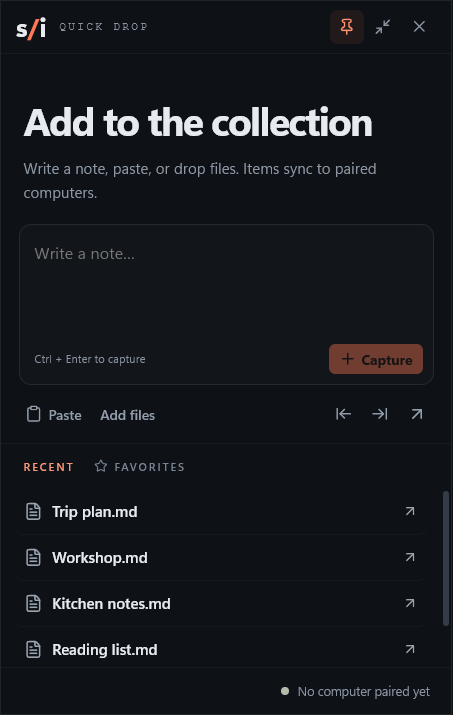
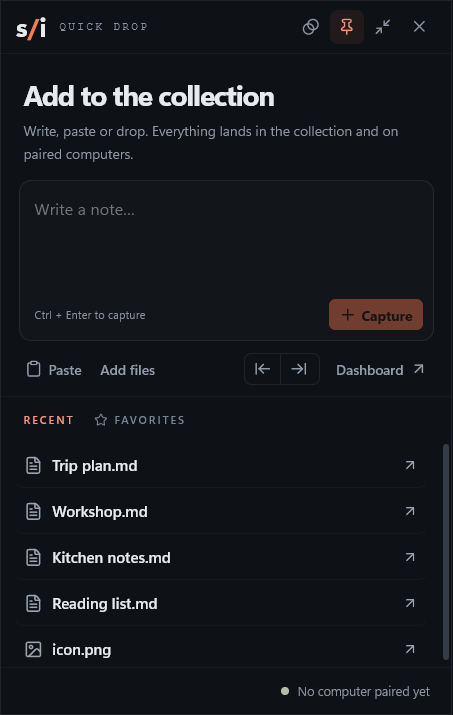
Release 0.4.5: notes in a side pane, previews without Markdown, chrome that says each thing once
Notes open in a pane beside the collection and save on switch or close. Card previews on the desktop, pinboard and phone show plain text. Search moves to the top bar in place of the breadcrumb; the sync pill shows only for requests or problems. The dialog is Preferences everywhere. Quick drop gets a quieter headline and labelled tools.

diff --git a/src/App.tsx b/src/App.tsx
@@ -10,6 +10,7 @@ import { CommandPalette } from './CommandPalette';
 import { saveBeforeUpdate } from './save-before-update';
 import { PreviewBody, previewLabel } from './Preview';
 import { previewKind } from '../shared/media';
+import { plainText } from './markdown-parse';
 
 const isPanel = new URLSearchParams(location.search).get('panel') === '1';
 const emptyLibrary: LibrarySnapshot = { items: [], placements: [] };
@@ -23,7 +24,7 @@ function title(item: LibraryItem) { return item.kind === 'note' ? item.name.repl
 function folderOf(path: string) { const index = path.lastIndexOf('/'); return index < 0 ? '' : path.slice(0, index); }
 export function collectionName(root: string) { return root.split(/[\\/]/).filter(Boolean).at(-1) || root; }
 function notePreview(item: LibraryItem) {
-  const lines = (item.preview || '').replace(/^#+\s*/gm, '').split('\n');
+  const lines = plainText(item.preview || '').split('\n');
   if (lines[0]?.trim() === title(item)) lines.shift();
   return lines.join('\n').trim() || 'Empty note';
 }
@@ -91,7 +92,7 @@ export function App() {
   function renderCard(item: LibraryItem) {
     const color = item.path.split('').reduce((sum, character) => sum + character.charCodeAt(0), 0) % 3;
     const folder = folderOf(item.path);
-    return <article className={`item-card ${item.kind} note-color-${color}`} data-testid="item-card" data-path={item.path}>
+    return <article className={`item-card ${item.kind} note-color-${color} ${note?.path === item.path ? 'open' : ''}`} data-testid="item-card" data-path={item.path}>
       {settings?.favorites?.includes(item.path) && <Star className="favorite-mark" size={14} fill="currentColor" aria-label="Favorite" />}
       <button className="card-main" onClick={() => void run(() => openItem(item))} aria-label={`Open ${item.name}`}>
         {item.kind === 'image' ? <div className="image-preview"><Image size={32} className="image-fallback" /><img src={media(item)} alt={item.name} loading="lazy" onError={event => { event.currentTarget.style.opacity = '0'; }} /></div> : item.kind === 'video' ? <div className="image-preview video-preview"><Film size={32} className="image-fallback" /><img src={media(item)} alt={item.name} loading="lazy" onError={event => { event.currentTarget.style.opacity = '0'; }} /><span className="play-badge"><Play size={16} fill="currentColor" /></span></div> : item.kind === 'audio' ? <div className="file-preview"><div className="file-glyph audio-glyph"><Music size={37} strokeWidth={1.3} /><span>{item.name.split('.').at(-1)?.slice(0, 5).toUpperCase() || 'AUDIO'}</span></div><h3>{item.name}</h3><span>{size(item.size)}</span></div> : item.kind === 'note' ? <div className="note-preview"><div className="card-kind"><FileText size={13} /><span>NOTE</span></div><h3>{title(item)}</h3><p>{notePreview(item)}</p></div> : <div className={`file-preview ${previewKind(item.name) === 'pdf' ? 'pdf-card' : ''}`}>{previewKind(item.name) === 'pdf' && <img className="pdf-thumb" src={media(item)} alt="" loading="lazy" onError={event => { event.currentTarget.style.display = 'none'; }} />}<div className="file-glyph"><File size={37} strokeWidth={1.3} /><span>{item.name.split('.').at(-1)?.slice(0, 5).toUpperCase() || 'FILE'}</span></div><h3>{item.name}</h3><span>{size(item.size)}</span></div>}
@@ -132,13 +133,13 @@ export function App() {
           <button className="sidebar-settings" onClick={() => setSettingsTab('preferences')}><SettingsIcon size={17} />Preferences<span className="version">v{initial.version}</span></button>
         </div>
       </aside>
-      <main className="main-content"><header className="topbar"><div className="breadcrumb">{name}<span>/</span><strong>{heading}</strong></div><div className="topbar-actions"><button className="icon-button" aria-label="Open command palette" title="Commands · Ctrl/⌘ K" onClick={() => setPalette(true)}><Command size={18} /></button><button className={`sync-pill ${sync.state}`} onClick={() => setSettingsTab('connect')}>{statusIcon}<span>{sync.state === 'synced' ? 'Up to date' : sync.state === 'unpaired' ? 'Pair a computer' : sync.state === 'offline' ? 'Offline' : sync.state === 'error' ? 'Needs attention' : sync.state === 'paused' ? 'Paused' : sync.state === 'starting' ? 'Starting' : 'Syncing'}</span>{sync.pending.length > 0 && <b>{sync.pending.length}</b>}</button><span className="topbar-divider" /><button title="Open Quick drop" aria-label="Open Quick drop" className="icon-button" onClick={() => void window.syncit.showPanel()}><PanelTop size={19} /></button></div></header>
+      <main className="main-content"><header className="topbar"><div className="search-box"><Search size={16} /><input aria-label="Search the collection" placeholder="Search names, folders and note text" value={search} onChange={event => setSearch(event.target.value)} />{search ? <button className="icon-button" aria-label="Clear search" onClick={() => setSearch('')}><X size={14} /></button> : <kbd>{initial.platform === 'darwin' ? '⌘' : 'Ctrl'} K</kbd>}</div><div className="topbar-actions">{(sync.state === 'error' || sync.pending.length > 0) && <button className={`sync-pill ${sync.state}`} onClick={() => setSettingsTab('connect')}>{statusIcon}<span>{sync.pending.length > 0 ? 'Pairing request' : 'Needs attention'}</span>{sync.pending.length > 0 && <b>{sync.pending.length}</b>}</button>}<button className="icon-button" aria-label="Open command palette" title="Commands · Ctrl/⌘ K" onClick={() => setPalette(true)}><Command size={18} /></button><button title="Open Quick drop" aria-label="Open Quick drop" className="icon-button" onClick={() => void window.syncit.showPanel()}><PanelTop size={19} /></button></div></header>
         <div className="page-heading"><div><h1>{heading}</h1><p>{subtitle}</p></div><button className="primary new-note" disabled={busy} onClick={() => void run(async () => setNote(await window.syncit.createNote()))}><Plus size={17} />New note</button></div>
         {library.error && <div className="page-error"><AlertTriangle size={18} /><span>{library.error}</span><button onClick={() => void refresh()}>Retry</button></div>}
         {sync.pending.length > 0 && <button className="pair-banner" onClick={() => setSettingsTab('connect')}><Link2 size={18} />{sync.pending[0].name} asks to join this collection.<span>Review request <ArrowRight size={15} /></span></button>}
-        <div className="toolbar"><div className="view-switch"><button aria-label="Grid view" className={view === 'grid' ? 'active' : ''} onClick={() => setView('grid')}><LayoutGrid size={15} />Grid</button><button aria-label="Pinboard view" className={view === 'board' ? 'active' : ''} onClick={() => setView('board')}><Pin size={15} />Board</button></div><div className="search-box"><Search size={16} /><input aria-label="Search the collection" placeholder="Search names, folders and note text" value={search} onChange={event => setSearch(event.target.value)} />{search && <button className="icon-button" aria-label="Clear search" onClick={() => setSearch('')}><X size={14} /></button>}</div><span className="sort-label"><ListFilter size={15} />Latest first</span><button className="secondary-button" disabled={busy} onClick={() => void run(() => window.syncit.chooseFiles())}><Upload size={15} />Add files</button></div>
+        <div className="toolbar"><div className="view-switch"><button aria-label="Grid view" className={view === 'grid' ? 'active' : ''} onClick={() => setView('grid')}><LayoutGrid size={15} />Grid</button><button aria-label="Pinboard view" className={view === 'board' ? 'active' : ''} onClick={() => setView('board')}><Pin size={15} />Board</button></div><span className="toolbar-spacer" /><span className="sort-label"><ListFilter size={15} />Latest first</span><button className="secondary-button" disabled={busy} onClick={() => void run(() => window.syncit.chooseFiles())}><Upload size={15} />Add files</button></div>
         {view === 'board' ? <Board items={visible} placements={library.placements} renderCard={renderCard} notify={notify} /> : <div className="collection-scroll"><div className="collection-caption"><span>{search ? 'RESULTS' : filterTitles[filter].toUpperCase()}<b>{visible.length}</b></span><span>{library.items.length ? size(library.items.reduce((sum, item) => sum + item.size, 0)) + ' on this computer' : ''}</span></div>
-          {visible.length ? <div className="card-grid">{visible.map(item => <div key={item.path}>{renderCard(item)}</div>)}</div> : search || filter !== 'all' ? <div className="empty-results"><Search size={28} /><h3>{search ? 'No matches.' : `No ${filterTitles[filter].toLowerCase()} yet.`}</h3><p>{search ? 'Search covers file names, folder names and the first 32,000 characters of each note.' : filter === 'favorite' ? 'Use “Add to favorites” in a card’s menu.' : 'Items you add appear here.'}</p></div> : <div className="welcome-empty"><div className="empty-art"><div className="art-note"><FileText size={17} /><span>Note</span><i /><i /></div><div className="art-image"><Image size={37} strokeWidth={1} /></div><div className="art-file"><File size={21} /><span>Any file</span></div></div><h2>The collection is empty.</h2><p>Drop files here, paste from the clipboard, or write a note.<br />Everything in this folder syncs to the computers you pair.</p><div className="row"><button className="primary" onClick={() => void run(async () => setNote(await window.syncit.createNote()))}><Plus size={16} />Write a note</button><button onClick={() => void run(paste)}><Clipboard size={16} />Paste</button><button onClick={() => void run(() => window.syncit.chooseFiles())}>Choose files <ArrowRight size={15} /></button></div></div>}
+          {visible.length ? <div className="card-grid">{visible.map(item => <div key={item.path}>{renderCard(item)}</div>)}</div> : search || filter !== 'all' ? <div className="empty-results">{filter === 'favorite' && !search ? <Star size={28} /> : <Search size={28} />}<h3>{search ? 'No matches.' : filter === 'favorite' ? 'No favorites yet.' : `No ${filterTitles[filter].toLowerCase()} yet.`}</h3><p>{search ? 'Search covers file names, folder names and the first 32,000 characters of each note.' : filter === 'favorite' ? 'Star an item from its card menu to keep it one click away here and in Quick drop. Favorites stay on this computer.' : 'Items you add appear here.'}</p></div> : <div className="welcome-empty"><div className="empty-art"><div className="art-note"><FileText size={17} /><span>Note</span><i /><i /></div><div className="art-image"><Image size={37} strokeWidth={1} /></div><div className="art-file"><File size={21} /><span>Any file</span></div></div><h2>The collection is empty.</h2><p>Drop files here, paste from the clipboard, or write a note.<br />Everything in this folder syncs to the computers you pair.</p><div className="row"><button className="primary" onClick={() => void run(async () => setNote(await window.syncit.createNote()))}><Plus size={16} />Write a note</button><button onClick={() => void run(paste)}><Clipboard size={16} />Paste</button><button onClick={() => void run(() => window.syncit.chooseFiles())}>Choose files <ArrowRight size={15} /></button></div></div>}
           <div className="dropzone"><div className="dropzone-icon"><ArrowDownToLine size={21} /></div><div><strong>Add to the collection</strong><p>Drop files anywhere, or paste from the clipboard. Imports copy the original.</p></div><button onClick={() => void run(paste)}><Clipboard size={15} />Paste<kbd>{initial.platform === 'darwin' ? '⌘' : 'Ctrl'} V</kbd></button></div>
         </div>}
         <footer className="statusbar"><button onClick={() => setSettingsTab('connect')}><span className={`status-dot ${sync.state === 'synced' ? 'green' : sync.state === 'error' ? 'red' : ''}`} />{labels[sync.state]}{sync.pendingItems > 0 && ` · ${sync.pendingItems} pending`}</button><span><Wifi size={13} />Local network only<span className="dot-separator">·</span><Monitor size={13} />{settings.deviceName}</span></footer>
@@ -153,12 +154,12 @@ export function App() {
       { label: 'Open pinboard', hint: 'COLLECTION', run: () => { setView('board'); setFilter('all'); } },
       { label: 'Open collection folder', hint: 'FOLDER', run: () => void run(() => window.syncit.openFolder()) },
       { label: sync.state === 'paused' ? 'Resume sync' : 'Pause sync', hint: 'SYNC', run: () => void run(() => window.syncit.settings({ syncPaused: sync.state !== 'paused' })) },
-      { label: 'Computers & sync', hint: 'SETTINGS', run: () => setSettingsTab('connect') },
-      { label: 'Open preferences', hint: 'SETTINGS', run: () => setSettingsTab('preferences') }
+      { label: 'Computers & sync', hint: 'PREFERENCES', run: () => setSettingsTab('connect') },
+      { label: 'General preferences', hint: 'PREFERENCES', run: () => setSettingsTab('preferences') }
     ]} />}
     {dragging && <div className="drop-overlay"><div><ArrowDownToLine size={40} /><h2>Drop to add</h2><p>Files are copied into the collection.</p></div></div>}
     {toast && <div className="toast" role="status"><span>{toast}</span><button className="icon-button" aria-label="Dismiss message" onClick={() => setToast('')}><X size={15} /></button></div>}
-    {note && <NoteEditor key={note.path} document={note} close={() => setNote(null)} notify={notify} runId={initial.runId} root={settings.root} />}
+    {note && <NoteEditor key={note.path} mode={isPanel ? 'overlay' : 'pane'} document={note} close={() => setNote(null)} notify={notify} runId={initial.runId} root={settings.root} />}
     {settingsTab && <SettingsPanel settings={settings} sync={sync} close={() => setSettingsTab(null)} update={setSettings} notify={notify} initialTab={settingsTab} />}
     {preview && <div className="modal-shade" onClick={event => { if (event.target === event.currentTarget) setPreview(null); }}><section className={`image-modal media-modal ${previewKind(preview.name) || 'file'}`} role="dialog" aria-label={previewLabel(preview)}><header><strong>{preview.name}</strong><button className="icon-button" aria-label="Close preview" onClick={() => setPreview(null)}><X size={21} /></button></header>
       <PreviewBody item={preview} onFail={() => setMediaError(true)} />

diff --git a/src/NoteEditor.tsx b/src/NoteEditor.tsx
@@ -8,7 +8,11 @@ import { Markdown } from './Markdown';
 function formatTime(time: number) { return new Date(time).toLocaleString(undefined, { month: 'short', day: 'numeric', hour: '2-digit', minute: '2-digit' }); }
 function formatSize(bytes: number) { return bytes < 1024 ? `${bytes} B` : `${(bytes / 1024).toFixed(0)} KB`; }
 
-export function NoteEditor({ document: initial, close, notify, runId, root }: { document: NoteDocument; close: () => void; notify: (message: string) => void; runId: string; root: string }) {
+/**
+ * The note editor. In the dashboard it is a pane beside the collection (mode "pane"), so the grid stays in view and
+ * switching notes is one click; in the small Quick drop window it covers the window (mode "overlay").
+ */
+export function NoteEditor({ document: initial, close, notify, runId, root, mode = 'overlay' }: { document: NoteDocument; close: () => void; notify: (message: string) => void; runId: string; root: string; mode?: 'pane' | 'overlay' }) {
   const journal = useRef(draftKey());
   const [text, setText] = useState(initial.text);
   const [document, setDocument] = useState(initial);
@@ -29,6 +33,7 @@ export function NoteEditor({ document: initial, close, notify, runId, root }: { 
   }
   const isMarkdown = /\.md$/i.test(document.path);
   const folder = document.path.includes('/') ? document.path.slice(0, document.path.lastIndexOf('/')) : '';
+  const title = document.path.split('/').at(-1)?.replace(/\.(md|txt)$/i, '') || '';
   async function loadHistory() {
     try { const list = await window.syncit.noteHistory(current.current.path); if (active.current) setVersions(list); }
     catch (error) { if (active.current) { setVersions([]); notify(String(error)); } }
@@ -38,7 +43,7 @@ export function NoteEditor({ document: initial, close, notify, runId, root }: { 
     if (saving.current) { await saving.current; if (dirty.current) return save(); return; }
     if (!dirty.current) return;
     const value = buffer.current;
-    setState('saving');
+    if (active.current) setState('saving');
     let failed = false;
     saving.current = (async () => {
       try {
@@ -47,7 +52,7 @@ export function NoteEditor({ document: initial, close, notify, runId, root }: { 
         if (!dirty.current) clearDraft(journal.current);
         if (active.current) { setDocument(result); setState(dirty.current ? 'changed' : 'saved'); setRemoteChanged(false); }
         if (result.conflict) notify('Both versions kept. Your edits were saved as a conflict copy.');
-        if (history) void loadHistory();
+        if (history && active.current) void loadHistory();
       } catch (error) { failed = true; if (active.current) { setState('error'); setError(String(error)); } }
       finally { saving.current = null; }
     })();
@@ -66,7 +71,8 @@ export function NoteEditor({ document: initial, close, notify, runId, root }: { 
         if (history) void loadHistory();
       }).catch(() => { if (active.current) setRemoteChanged(true); });
     });
-    return () => { active.current = false; clearTimeout(timer.current); clearTimeout(draftTimer.current); if (dirty.current) journalDraft(); unsubscribe(); unregisterEditor(); };
+    // Leaving the editor with unsaved text (another note opened, the view closed) still saves it; the draft journal covers a crash in between.
+    return () => { active.current = false; clearTimeout(timer.current); clearTimeout(draftTimer.current); if (dirty.current) { journalDraft(); void save().catch(() => {}); } unsubscribe(); unregisterEditor(); };
   }, []);
   useEffect(() => {
     const handler = (event: BeforeUnloadEvent) => { if (dirty.current || saving.current) { event.preventDefault(); void save().catch(() => {}); } };
@@ -89,25 +95,25 @@ export function NoteEditor({ document: initial, close, notify, runId, root }: { 
     notify('Version restored. The text it replaced is kept in History.');
   }
   async function finish() { try { await save(); close(); } catch { /* Keep the buffer visible until it can be saved. */ } }
-  return <div className="modal-shade" onMouseDown={event => { if (event.target === event.currentTarget) void finish(); }}>
-    <section className={`note-editor ${history ? 'with-history' : ''}`} role="dialog" aria-modal="true" aria-label="Edit note" onKeyDown={event => { if (event.key === 'Escape') void finish(); if ((event.metaKey || event.ctrlKey) && event.key === 's') { event.preventDefault(); void save().catch(() => {}); } }}>
-      <header><span className="note-label"><FileText size={17} /> NOTE{folder && <span className="note-folder"> · {folder}</span>}</span><div className="row">
-        {isMarkdown && <button className={`icon-button ${preview ? 'active' : ''}`} aria-label={preview ? 'Edit note' : 'Preview Markdown'} aria-pressed={preview} title={preview ? 'Edit' : 'Preview Markdown'} onClick={() => setPreview(value => !value)}>{preview ? <Pencil size={17} /> : <Eye size={17} />}</button>}
-        <button className={`icon-button ${history ? 'active' : ''}`} aria-label="Note history" aria-pressed={history} title="History" onClick={() => setHistory(value => !value)}><History size={17} /></button>
-        <button className="icon-button" title="Open in text editor" aria-label="Open in text editor" onClick={() => { void save().then(() => window.syncit.open(current.current.path)).catch(() => {}); }}><ExternalLink size={17} /></button>
-        <button className="icon-button" aria-label="Close note" onClick={() => void finish()}><X size={20} /></button></div></header>
-      <h2>{document.path.split('/').at(-1)?.replace(/\.(md|txt)$/i, '')}</h2>
-      {remoteChanged && <div className="inline-warning"><AlertTriangle size={16} /> This note changed on disk. Saving keeps both versions.</div>}
-      <div className="note-body">
-        {preview ? <div className="markdown" aria-label="Markdown preview"><Markdown source={text} /></div> : <textarea autoFocus value={text} onChange={event => edit(event.target.value)} placeholder="Write here. Changes save automatically." aria-label="Note text" spellCheck />}
-        {history && <aside className="note-history" aria-label="Note history">
-          <div className="history-head"><strong>History</strong><span>{versions ? `${versions.length} ${versions.length === 1 ? 'version' : 'versions'}` : 'Loading…'}</span></div>
-          {versions && versions.length === 0 && <p>No previous versions yet. A copy is kept on this computer each time this note is saved with changes, and received changes are archived for 30 days.</p>}
-          {versions && versions.length > 0 && <ul>{versions.map(version => <li key={version.id}><button className={selected?.id === version.id ? 'selected' : ''} onClick={() => void showVersion(version)}><span>{formatTime(version.time)}</span><small>{version.source === 'local' ? 'This computer' : 'Received change'} · {formatSize(version.size)}</small></button></li>)}</ul>}
-          {selected && <div className="history-preview"><pre>{versionText === null ? 'Loading…' : versionText || '(empty note)'}</pre><div className="row"><button className="primary" disabled={versionText === null} onClick={restore}>Restore this version</button><button onClick={() => setSelected(null)}>Close</button></div></div>}
-        </aside>}
-      </div>
-      <footer><span className={state === 'error' ? 'error-text' : ''}>{state === 'saved' ? <><Check size={14} /> Saved on this computer</> : state === 'saving' ? <><LoaderCircle className="spin" size={14} /> Saving…</> : state === 'error' ? error : 'Unsaved changes'}</span><span>{text.length.toLocaleString()} characters</span>{state === 'error' && <button onClick={() => void save().catch(() => {})}>Retry save</button>}</footer>
-    </section>
-  </div>;
+  const editor = <section className={`note-editor ${mode === 'pane' ? 'note-pane' : ''} ${history ? 'with-history' : ''}`} role={mode === 'pane' ? 'complementary' : 'dialog'} aria-modal={mode === 'pane' ? undefined : true} aria-label="Note" onKeyDown={event => { if (event.key === 'Escape') void finish(); if ((event.metaKey || event.ctrlKey) && event.key === 's') { event.preventDefault(); void save().catch(() => {}); } }}>
+    <header><span className="note-label"><FileText size={17} /> NOTE{folder && <span className="note-folder"> · {folder}</span>}</span><div className="row">
+      {isMarkdown && <button className={`icon-button ${preview ? 'active' : ''}`} aria-label={preview ? 'Edit note' : 'Preview Markdown'} aria-pressed={preview} title={preview ? 'Edit' : 'Preview Markdown'} onClick={() => setPreview(value => !value)}>{preview ? <Pencil size={17} /> : <Eye size={17} />}</button>}
+      <button className={`icon-button ${history ? 'active' : ''}`} aria-label="Note history" aria-pressed={history} title="History" onClick={() => setHistory(value => !value)}><History size={17} /></button>
+      <button className="icon-button" title="Open in text editor" aria-label="Open in text editor" onClick={() => { void save().then(() => window.syncit.open(current.current.path)).catch(() => {}); }}><ExternalLink size={17} /></button>
+      <button className="icon-button" aria-label="Close note" title="Close · Esc" onClick={() => void finish()}><X size={20} /></button></div></header>
+    <h2>{title}</h2>
+    {remoteChanged && <div className="inline-warning"><AlertTriangle size={16} /> This note changed on disk. Saving keeps both versions.</div>}
+    <div className="note-body">
+      {preview ? <div className="markdown" aria-label="Markdown preview"><Markdown source={text} omitTitle={title} /></div> : <textarea autoFocus value={text} onChange={event => edit(event.target.value)} placeholder="Write here. Changes save automatically." aria-label="Note text" spellCheck />}
+      {history && <aside className="note-history" aria-label="Note history">
+        <div className="history-head"><strong>History</strong><span>{versions ? `${versions.length} ${versions.length === 1 ? 'version' : 'versions'}` : 'Loading…'}</span></div>
+        {versions && versions.length === 0 && <p>No previous versions yet. A copy is kept on this computer each time this note is saved with changes, and received changes are archived for 30 days.</p>}
+        {versions && versions.length > 0 && <ul>{versions.map(version => <li key={version.id}><button className={selected?.id === version.id ? 'selected' : ''} onClick={() => void showVersion(version)}><span>{formatTime(version.time)}</span><small>{version.source === 'local' ? 'This computer' : 'Received change'} · {formatSize(version.size)}</small></button></li>)}</ul>}
+        {selected && <div className="history-preview"><pre>{versionText === null ? 'Loading…' : versionText || '(empty note)'}</pre><div className="row"><button className="primary" disabled={versionText === null} onClick={restore}>Restore this version</button><button onClick={() => setSelected(null)}>Close</button></div></div>}
+      </aside>}
+    </div>
+    <footer><span className={state === 'error' ? 'error-text' : ''}>{state === 'saved' ? <><Check size={14} /> Saved on this computer</> : state === 'saving' ? <><LoaderCircle className="spin" size={14} /> Saving…</> : state === 'error' ? error : 'Unsaved changes'}</span><span>{text.length.toLocaleString()} characters</span>{state === 'error' && <button onClick={() => void save().catch(() => {})}>Retry save</button>}</footer>
+  </section>;
+  if (mode === 'pane') return editor;
+  return <div className="modal-shade" onMouseDown={event => { if (event.target === event.currentTarget) void finish(); }}>{editor}</div>;
 }

diff --git a/src/QuickPanel.tsx b/src/QuickPanel.tsx
@@ -39,12 +39,12 @@ export function QuickPanel({ settings, items, status, platform, open, paste, not
       <button aria-label="Hide floating window" onClick={() => void window.syncit.panel('hide')}><X size={15} /></button>
     </div></header>
     {opacityOpen && <div className="floating-opacity"><Blend size={13} /><input type="range" min="60" max="100" step="5" aria-label="Floating window opacity" value={opacity} onChange={event => changeOpacity(Number(event.target.value))} /><span>{opacity}%</span></div>}
-    {!mini && <div className="floating-intro"><h2>Add to the collection</h2><p>Write a note, paste, or drop files. Items sync to paired computers.</p></div>}
+    {!mini && <div className="floating-intro"><h2>Add to the collection</h2><p>Write, paste or drop. Everything lands in the collection and on paired computers.</p></div>}
     <form className="capture-composer" onSubmit={event => { event.preventDefault(); void save(); }}>
       <textarea aria-label="Quick capture text" placeholder="Write a note…" value={text} onChange={event => { setText(event.target.value); try { localStorage.setItem(key, event.target.value); } catch { notify('Draft storage is full. Capture this text before closing.'); } }} onKeyDown={event => { if ((event.ctrlKey || event.metaKey) && event.key === 'Enter') { event.preventDefault(); void save(); } }} />
       <div><span>{captured && !text ? 'Saved to the collection' : `${modifier} + Enter to capture`}</span><button className="capture-submit" aria-label="Save quick capture" disabled={busy || !text.trim()}><Plus size={14} />Capture</button></div>
     </form>
-    <div className="floating-tools"><button disabled={busy} aria-label="Paste from clipboard" onClick={() => void perform(paste)}><Clipboard size={14} />Paste</button>{!mini && <button disabled={busy} onClick={() => void perform(() => window.syncit.chooseFiles())}>Add files</button>}<span /><button title="Dock left" aria-label="Dock left" onClick={() => void window.syncit.panel('left')}><ArrowLeftToLine size={14} /></button><button title="Dock right" aria-label="Dock right" onClick={() => void window.syncit.panel('right')}><ArrowRightToLine size={14} /></button><button aria-label="Open dashboard" title="Open dashboard" onClick={() => void window.syncit.showDashboard()}><ArrowUpRight size={16} /></button></div>
+    <div className="floating-tools"><button disabled={busy} aria-label="Paste from clipboard" onClick={() => void perform(paste)}><Clipboard size={14} />Paste</button>{!mini && <button disabled={busy} onClick={() => void perform(() => window.syncit.chooseFiles())}>Add files</button>}<span /><span className="dock-group"><button title="Dock to the left edge" aria-label="Dock left" onClick={() => void window.syncit.panel('left')}><ArrowLeftToLine size={14} /></button><button title="Dock to the right edge" aria-label="Dock right" onClick={() => void window.syncit.panel('right')}><ArrowRightToLine size={14} /></button></span><button aria-label="Open dashboard" title="Open the main window" onClick={() => void window.syncit.showDashboard()}>Dashboard<ArrowUpRight size={14} /></button></div>
     {!mini && <><div className="floating-tabs"><button className={!favorites ? 'active' : ''} onClick={() => setFavorites(false)}>RECENT</button><button className={favorites ? 'active' : ''} onClick={() => setFavorites(true)}><Star size={11} />FAVORITES</button></div><div className="floating-items">{recent.map(item => { const Icon = icons[item.kind]; return <button key={item.path} onClick={() => open(item)}><Icon size={15} /><span>{item.name}</span><ArrowUpRight size={13} /></button>; })}{!recent.length && <p>{favorites ? 'Star items in the dashboard to list them here.' : 'Nothing in the collection yet.'}</p>}</div><footer className="floating-footer"><span className="status-dot" />{status}</footer></>}
   </section>;
 }

diff --git a/src/styles.css b/src/styles.css
@@ -475,3 +475,26 @@ progress { width: 100%; height: 4px; margin-top: 12px; accent-color: var(--green
 .phone-list li > div { flex: 1; min-width: 0; }
 .phone-list li strong { display: block; font-weight: 600; }
 .phone-list li small { display: block; color: var(--muted); font-size: 10px; margin-top: 2px; }
+
+/* Elevation pass: the note editor is a pane beside the collection, search lives in the top bar, and the chrome says each thing once. */
+.topbar .search-box { margin-left: 0; width: min(420px, 50%); height: 36px; }
+.topbar .search-box kbd { margin-left: auto; white-space: nowrap; }
+.toolbar-spacer { flex: 1; }
+.sync-pill.error { color: #e0a060; border-color: #e0a06033; }
+.item-card.open { border-color: var(--green); box-shadow: 0 0 0 1px var(--green); }
+.note-pane { width: clamp(420px, 41vw, 700px); flex-shrink: 0; height: 100vh; border-left: 1px solid var(--line); border-top: 0; border-right: 0; border-bottom: 0; border-radius: 0; box-shadow: none; padding: 22px 32px 18px; background: var(--surface); animation: pane-in .18s ease-out; }
+.note-pane.with-history { width: clamp(680px, 62vw, 1040px); }
+@keyframes pane-in { from { opacity: 0; transform: translateX(16px); } to { opacity: 1; transform: none; } }
+@media (max-width: 1180px) { .note-pane { position: fixed; right: 0; top: 0; bottom: 0; z-index: 100; width: min(640px, 92vw); box-shadow: -24px 0 60px #0008; border-left: 1px solid #3b4552; } .note-pane.with-history { width: min(900px, 95vw); } }
+.note-pane header { margin-bottom: 18px; }
+.note-pane h2 { font-size: 24px; margin-bottom: 14px; }
+.note-pane textarea { font-size: 14.5px; line-height: 1.85; }
+.note-pane .markdown { padding-right: 6px; }
+.note-pane footer { padding-top: 12px; }
+.floating-intro { padding: 18px 18px 12px; }
+.floating-intro h2 { font-size: 22px; letter-spacing: -.8px; margin: 0 0 5px; }
+.floating-intro p { font-size: 11px; }
+.dock-group { display: inline-flex; border: 1px solid #ffffff14; border-radius: 6px; overflow: hidden; margin-right: 4px; }
+.dock-group button { border-radius: 0; padding: 5px 7px; }
+.dock-group button + button { border-left: 1px solid #ffffff14; }
+.empty-results svg { color: var(--muted); }

diff --git a/src/SettingsPanel.tsx b/src/SettingsPanel.tsx
@@ -14,9 +14,9 @@ export function SettingsPanel({ settings, sync, close, update, notify, initialTa
   useEffect(() => { void window.syncit.initial().then(value => setLoginEnabled(value.loginEnabled)); }, [settings.startAtLogin]);
   const run: Run = async (action, message) => { setBusy(true); try { await action(); if (message) notify(message); } catch (error) { notify(String(error)); } finally { setBusy(false); } };
   const save = (patch: Partial<Settings>) => run(async () => update(await window.syncit.settings(patch)));
-  return <div className="modal-shade"><section className="settings-panel" role="dialog" aria-modal="true" aria-label="Settings">
-    <header><h2>Settings</h2><button className="icon-button" aria-label="Close settings" onClick={close}><X size={21} /></button></header>
-    <div className="settings-tabs"><button className={tab === 'connect' ? 'active' : ''} onClick={() => setTab('connect')}>Computers & sync</button><button className={tab === 'preferences' ? 'active' : ''} onClick={() => setTab('preferences')}>Preferences</button></div>
+  return <div className="modal-shade"><section className="settings-panel" role="dialog" aria-modal="true" aria-label="Preferences">
+    <header><h2>Preferences</h2><button className="icon-button" aria-label="Close preferences" onClick={close}><X size={21} /></button></header>
+    <div className="settings-tabs"><button className={tab === 'connect' ? 'active' : ''} onClick={() => setTab('connect')}>Computers & sync</button><button className={tab === 'preferences' ? 'active' : ''} onClick={() => setTab('preferences')}>General</button></div>
     <div className="settings-content">
       {tab === 'connect' ? <>
         {sync.errors.length > 0 && <div className="inline-error">{sync.errors.map((error, i) => <p key={i}>{error}</p>)}<button onClick={() => void run(() => window.syncit.retrySync())}><RefreshCw size={14} /> Retry connection</button></div>}

diff --git a/tests/markdown.test.ts b/tests/markdown.test.ts
@@ -1,6 +1,6 @@
 import test from 'node:test';
 import assert from 'node:assert/strict';
-import { parseInline, parseMarkdown } from '../src/markdown-parse';
+import { parseInline, parseMarkdown, plainText } from '../src/markdown-parse';
 
 test('Markdown preview parses structure into an inert tree', () => {
   const blocks = parseMarkdown('# Title\n\nSome *emphasis* and **strong** text with `code`.\n\n- one\n- two\n  continued\n1. first\n2) second\n\n> quoted\n> lines\n\n```js\nconst x = 1;\n```\n\n---\nLast paragraph');
@@ -20,4 +20,10 @@ test('Markdown inline parsing never yields markup, follows no links and flattens
   assert.deepEqual(parseMarkdown('first line\nsecond line')[0], { type: 'paragraph', inline: [{ type: 'text', text: 'first line' }, { type: 'break' }, { type: 'text', text: 'second line' }] });
   assert.deepEqual(parseMarkdown(''), []);
   assert.deepEqual(parseMarkdown('```\nunterminated'), [{ type: 'code', language: '', text: 'unterminated' }]);
+});
+
+test('card previews show note text without Markdown syntax', () => {
+  assert.equal(plainText('# Trip plan\n\n**Friday** leave after lunch\n*Saturday* the coast road\n\n> Pack the good camera.\n\n- beans\n- rice\n\n1. first\n\n`code` and [a link](https://x.test) and <b>no html</b>'),
+    'Trip plan\nFriday leave after lunch\nSaturday the coast road\nPack the good camera.\n• beans\n• rice\n1. first\ncode and a link and <b>no html</b>');
+  assert.equal(plainText(''), '');
 });

diff --git a/web/app.js b/web/app.js
@@ -56,7 +56,8 @@
   const folder = path => path.includes('/') ? path.slice(0, path.lastIndexOf('/')) : '';
   const extOf = name => { const i = name.lastIndexOf('.'); return i < 0 ? '' : name.slice(i).toLowerCase(); };
   const previewOf = item => item.previewKind || (item.kind === 'image' || item.kind === 'video' || item.kind === 'audio' ? item.kind : null);
-  const notePreview = item => (item.preview || '').replace(/^#+\s*/gm, '').split('\n').map(line => line.trim()).filter(line => line && line !== title(item)).join(' ');
+  // Card text without Markdown syntax: headings, emphasis and quote markers go, list markers become bullets.
+  const notePreview = item => (item.preview || '').replace(/^#+\s*/gm, '').replace(/^\s*>\s?/gm, '').replace(/^\s*[-*+]\s+/gm, '• ').replace(/(\*\*|__)(.+?)\1/g, '$2').replace(/(^|[^\w*])[*_]([^*_\n]+)[*_](?![\w*])/g, '$1$2').replace(/`([^`]+)`/g, '$1').split('\n').map(line => line.trim()).filter(line => line && line !== title(item)).join(' ');
   const tint = path => path.split('').reduce((sum, ch) => sum + ch.charCodeAt(0), 0) % 3;
   const canShareFiles = () => typeof navigator.share === 'function' && typeof navigator.canShare === 'function';
 

diff --git a/src/Markdown.tsx b/src/Markdown.tsx
@@ -1,5 +1,5 @@
 import type { ReactNode } from 'react';
-import { parseMarkdown, type Inline } from './markdown-parse';
+import { inlineText, parseMarkdown, type Inline } from './markdown-parse';
 
 function renderInline(inline: Inline[]): ReactNode[] {
   return inline.map((part, index) => {
@@ -14,8 +14,10 @@ function renderInline(inline: Inline[]): ReactNode[] {
 }
 
 /** Read-only rendering of a note. Built from a parsed tree, so note contents can never inject markup. */
-export function Markdown({ source }: { source: string }) {
-  const blocks = parseMarkdown(source);
+export function Markdown({ source, omitTitle }: { source: string; omitTitle?: string }) {
+  let blocks = parseMarkdown(source);
+  // The editor shows the note's title above the text, so a leading heading that repeats it is not rendered twice.
+  if (omitTitle && blocks[0]?.type === 'heading' && inlineText(blocks[0].inline).trim() === omitTitle.trim()) blocks = blocks.slice(1);
   if (!blocks.length) return <p className="md-empty">Nothing to preview yet.</p>;
   return <>{blocks.map((block, index) => {
     switch (block.type) {

diff --git a/src/markdown-parse.ts b/src/markdown-parse.ts
@@ -33,6 +33,17 @@ export function parseInline(text: string): Inline[] {
   return result;
 }
 
+export function inlineText(inline: Inline[]) { return inline.map(part => part.type === 'break' ? '\n' : part.text).join(''); }
+/** The note as readable lines without Markdown syntax: headings and emphasis stripped, lists bulleted, code kept. */
+export function plainText(source: string): string {
+  return parseMarkdown(source).map(block => {
+    if (block.type === 'rule') return '';
+    if (block.type === 'code') return block.text;
+    if (block.type === 'list') return block.items.map((item, index) => `${block.ordered ? `${index + 1}.` : '•'} ${inlineText(item)}`).join('\n');
+    return inlineText(block.inline);
+  }).filter(Boolean).join('\n');
+}
+
 export function parseMarkdown(source: string): Block[] {
   const lines = source.replace(/\r\n?/g, '\n').split('\n');
   const blocks: Block[] = [];

diff --git a/CHANGELOG.md b/CHANGELOG.md
@@ -1,5 +1,14 @@
 # Changelog
 
+## 0.4.5 — 2026-10-27
+
+### Changed
+- Notes open in a pane beside the collection instead of a dialog over it, so the grid stays in view, the open card is marked, and switching notes is one click. The pane saves on close or switch, including unsaved text.
+- Card previews show the note's text without Markdown syntax (no asterisks or quote markers), in the grid, on the pinboard and on the phone page. A note's leading heading is no longer rendered twice in the editor.
+- The main window says each thing once: search moved to the top bar in place of the breadcrumb, the sync pill appears only for a pairing request or a problem, and the sidebar card and status bar carry the sync state.
+- The dialog opened from the sidebar is called Preferences everywhere, with the tabs Computers & sync and General.
+- Quick drop: a quieter headline, docking buttons grouped, and a labelled Dashboard button. Favorites get a proper empty state.
+
 ## 0.4.4 — 2026-10-27
 
 ### Changed
